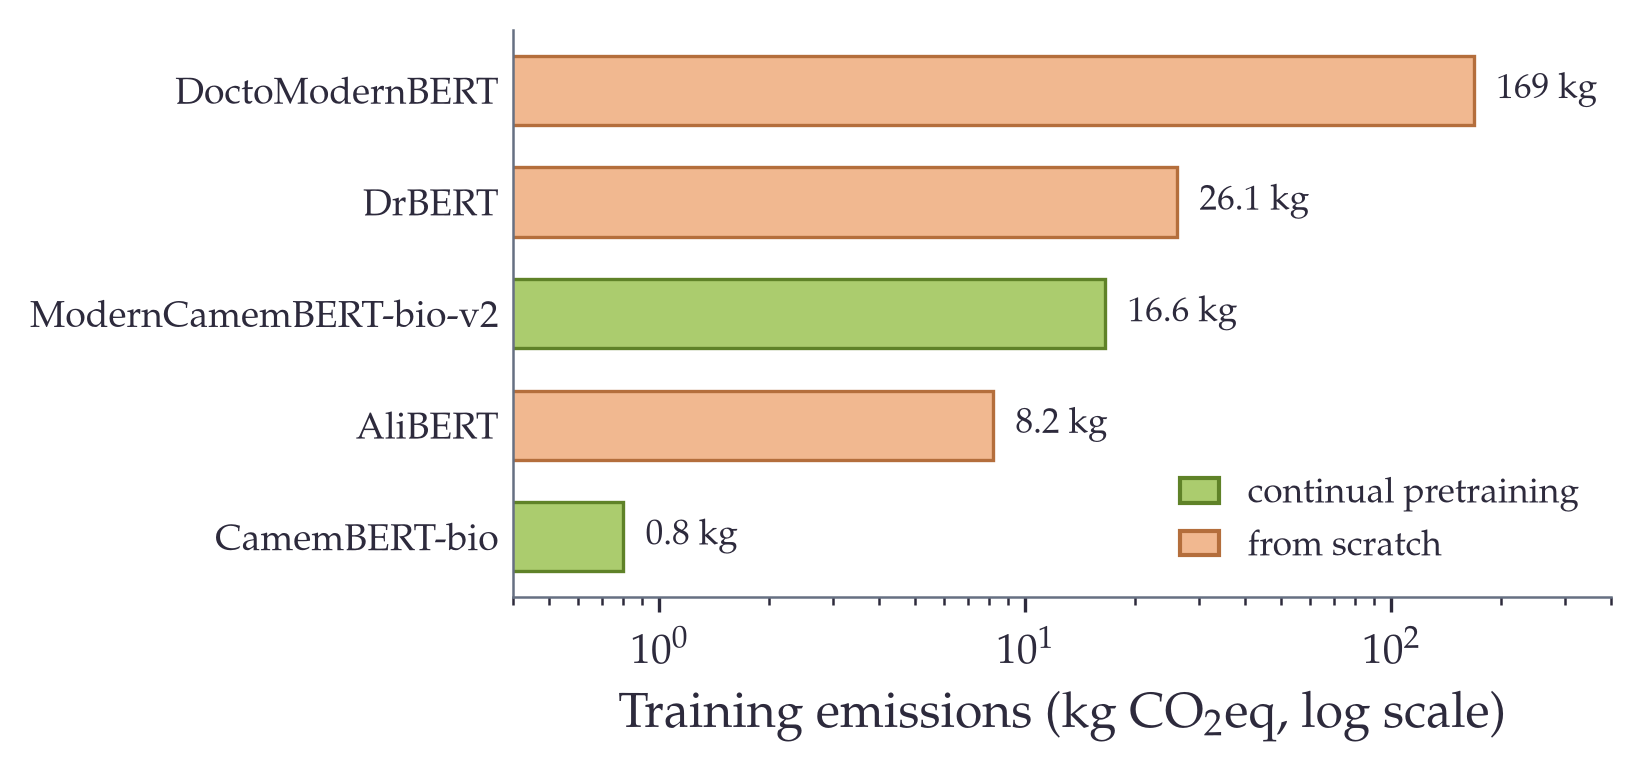
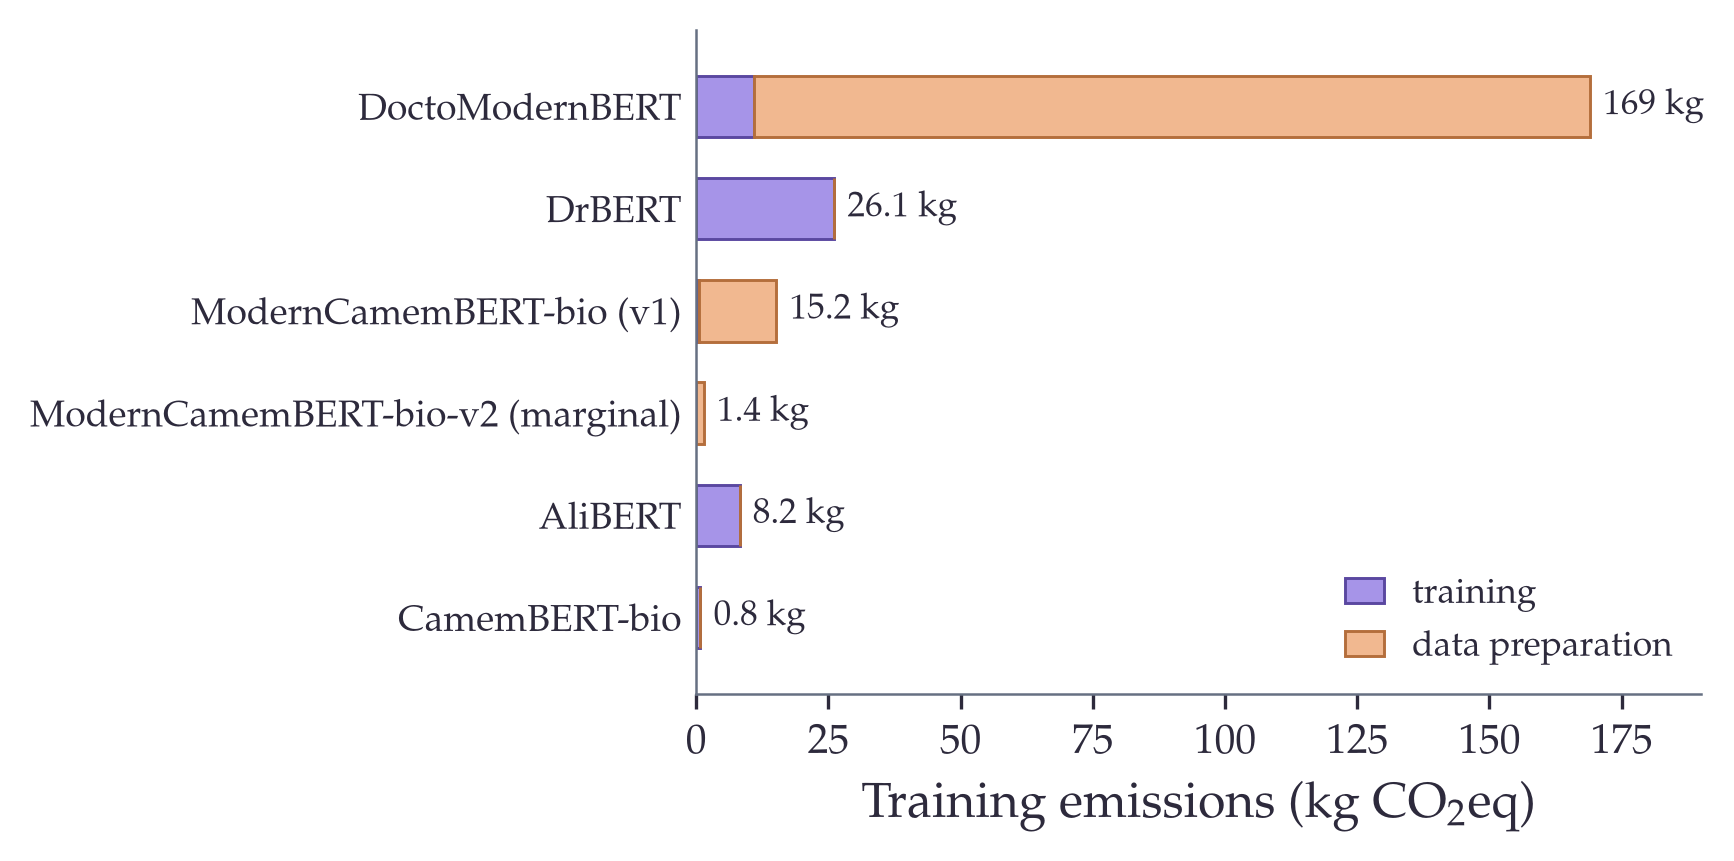
conclusion fig 19.2: split each bar into training vs data-preparation (LLM corpus rewrite/annotate/generate), and separate ModernCamemBERT-bio v1 (15.2kg) from the marginal v2 ontology step (1.4kg); linear stacked; update caption. shows data prep dominates the recent models, v2 near-free

diff --git a/plots/part_3/conclusion_carbon_all.py b/plots/part_3/conclusion_carbon_all.py
@@ -1,16 +1,20 @@
 """
-Conclusion carbon (option A): training emissions of every compared model.
+Conclusion carbon figure: training vs data-preparation, per encoder.
 
-Carbon-only, so no benchmark-consistency issue: it just answers "how much carbon
-to produce this biomedical encoder", base model reused (excluded). Continual
-pretraining (reuses a public base) vs from scratch, across two eras.
+Each bar splits into two costs: the model TRAINING (pretraining / continual
+pretraining) and the DATA PREPARATION (the LLM that rewrites, annotates or
+generates the corpus). ModernCamemBERT-bio is split into v1 and the marginal
+v2 (the ontology augmentation), to show v2 adds little. The pre-LLM-curation
+encoders (CamemBERT-bio, AliBERT, DrBERT) have no data-preparation cost.
 
-Data (reserved GPU-hours, 34 gCO2/kWh France; base excluded):
-  CamemBERT-bio          0.8 kg   continual pretraining   (thesis Ch.4)
-  AliBERT                8.2 kg   from scratch            (thesis Ch.4)
-  ModernCamemBERT-bio-v2 16.6 kg  continual pretraining   (CARBON_FOOTPRINT.md)
-  DrBERT                 26.1 kg  from scratch            (thesis Ch.4)
-  DoctoModernBERT        169 kg   from scratch            (CARBON_FOOTPRINT.md)
+Data (kg CO2eq, reserved GPU-hours, 34 gCO2/kWh France; base excluded):
+  CARBON_FOOTPRINT.md / FINAL_RESULTS.md.
+    DoctoModernBERT          training 10.9  + data prep 158.1  (= 169)
+    DrBERT                   training 26.1                     (from scratch)
+    ModernCamemBERT-bio v1   training 0.46  + data prep 14.7   (= 15.2)
+    AliBERT                  training 8.2                       (from scratch)
+    ModernCamemBERT-bio v2   training 0.06  + data prep 1.37   (= 1.4, marginal)
+    CamemBERT-bio            training 0.8                       (continual pretraining)
 """
 import sys, os
 
@@ -21,49 +25,47 @@ import matplotlib.pyplot as plt
 import matplotlib.patches as mpatches
 from thesis_style import COLORS, apply_style
 
-# name, kg CO2, regime
+# (label, training kg, data-prep kg) -- top to bottom.
+# v1 and v2 kept adjacent so the marginal cost of v2 reads at a glance.
 MODELS = [
-    ("CamemBERT-bio",          0.8,  "cpt"),
-    ("AliBERT",                8.2,  "scratch"),
-    ("ModernCamemBERT-bio-v2", 16.6, "cpt"),
-    ("DrBERT",                 26.1, "scratch"),
-    ("DoctoModernBERT",        169.0, "scratch"),
+    ("DoctoModernBERT",                  10.9, 158.1),
+    ("DrBERT",                           26.1,   0.0),
+    ("ModernCamemBERT-bio (v1)",          0.46, 14.7),
+    ("ModernCamemBERT-bio-v2 (marginal)", 0.06,  1.37),
+    ("AliBERT",                           8.2,   0.0),
+    ("CamemBERT-bio",                     0.8,   0.0),
 ]
 OUTPUT = os.path.join(os.path.dirname(__file__), "output", "conclusion_carbon_all")
 
 
 def main():
     apply_style()
-    fig, ax = plt.subplots(figsize=(5.6, 2.7))
+    fig, ax = plt.subplots(figsize=(5.9, 3.0))
 
-    MODELS.sort(key=lambda m: m[1])
-    y = list(range(len(MODELS)))
-    col = {"cpt": COLORS["secondary"], "scratch": COLORS["tertiary"]}
-    edge = {"cpt": COLORS["secondary_dark"], "scratch": COLORS["tertiary_dark"]}
-    colors = [col[m[2]] for m in MODELS]
-    edges = [edge[m[2]] for m in MODELS]
+    y = list(range(len(MODELS)))[::-1]  # first entry on top
+    train = [m[1] for m in MODELS]
+    prep = [m[2] for m in MODELS]
 
-    ax.barh(y, [m[1] for m in MODELS], height=0.62, color=colors,
-            edgecolor=edges, linewidth=0.8)
+    ax.barh(y, train, height=0.6, color=COLORS["primary"],
+            edgecolor=COLORS["primary_dark"], linewidth=0.7, label="training")
+    ax.barh(y, prep, height=0.6, left=train, color=COLORS["tertiary"],
+            edgecolor=COLORS["tertiary_dark"], linewidth=0.7,
+            label="data preparation")
+
     for yi, m in zip(y, MODELS):
-        ax.text(m[1] * 1.15, yi, f"{m[1]:g} kg", va="center", ha="left",
-                fontsize=8.5, color=COLORS["ink"])
+        total = m[1] + m[2]
+        ax.text(total + 2.5, yi, f"{round(total, 1):g} kg", va="center",
+                ha="left", fontsize=8.5, color=COLORS["ink"])
 
     ax.set_yticks(y)
     ax.set_yticklabels([m[0] for m in MODELS], fontsize=9)
-    ax.set_xscale("log")
-    ax.set_xlim(0.4, 400)
-    ax.set_xlabel("Training emissions (kg CO$_2$eq, log scale)")
+    ax.set_xlabel("Training emissions (kg CO$_2$eq)")
+    ax.set_xlim(0, 190)
     ax.tick_params(axis="y", length=0)
+    ax.margins(y=0.08)
 
-    handles = [
-        mpatches.Patch(facecolor=COLORS["secondary"], edgecolor=COLORS["secondary_dark"],
-                       label="continual pretraining"),
-        mpatches.Patch(facecolor=COLORS["tertiary"], edgecolor=COLORS["tertiary_dark"],
-                       label="from scratch"),
-    ]
-    ax.legend(handles=handles, loc="lower right", frameon=False, fontsize=8.5,
-              handlelength=1.1)
+    ax.legend(loc="lower right", frameon=False, fontsize=8.5, handlelength=1.1,
+              borderaxespad=0.4)
 
     fig.tight_layout()
     for ext in ("pdf", "png"):

diff --git a/sources/conclusion.tex b/sources/conclusion.tex
@@ -66,9 +66,10 @@ rated power.
 \begin{figure}[t]
   \centering
   \includegraphics[width=0.82\textwidth]{plots/part_3/output/conclusion_carbon_all.pdf}
-  \caption{Training carbon of the biomedical encoders, on a log scale: continual
-  pretraining from a public base stays well below training from scratch in each
-  generation.}
+  \caption{Training carbon split into model training and the language model that
+  prepares the corpus: for the recent models the data preparation dominates, and
+  the ontology step that turns ModernCamemBERT-bio v1 into v2 adds only a marginal
+  amount.}
   \label{fig:conclusion-carbon}
 \end{figure}
 